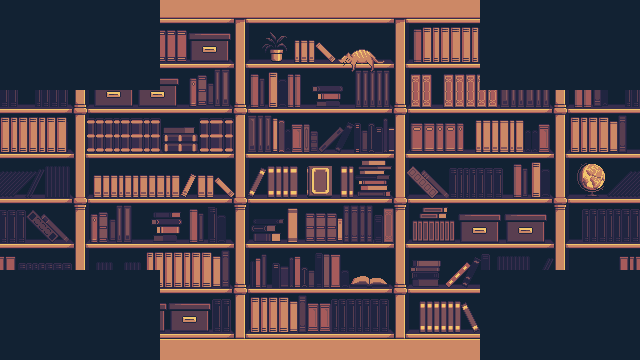
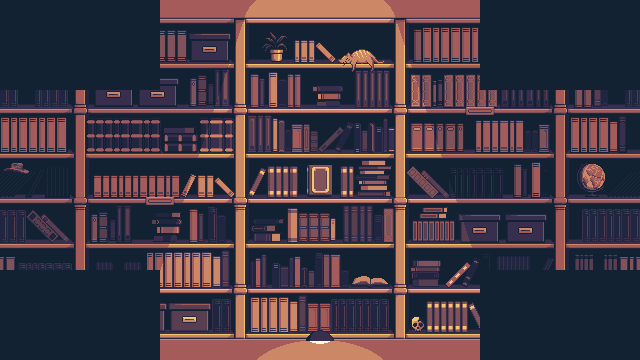
Add files via upload

diff --git a/assets/styles/icons.css b/assets/styles/icons.css
@@ -151,6 +151,32 @@
     calc(1 * var(--pixel)) calc(4 * var(--pixel)),
     calc(2 * var(--pixel)) calc(5 * var(--pixel)),
     calc(3 * var(--pixel)) calc(5 * var(--pixel));
+  --wrench:
+    calc(4 * var(--pixel)) calc(2 * var(--pixel)),
+    calc(5 * var(--pixel)) calc(2 * var(--pixel)),
+    calc(1 * var(--pixel)) calc(3 * var(--pixel)),
+    calc(2 * var(--pixel)) calc(3 * var(--pixel)),
+    calc(3 * var(--pixel)) calc(3 * var(--pixel)),
+    calc(4 * var(--pixel)) calc(3 * var(--pixel)),
+    calc(4 * var(--pixel)) calc(4 * var(--pixel)),
+    calc(5 * var(--pixel)) calc(4 * var(--pixel));
+  --home:
+    calc(3 * var(--pixel)) calc(1 * var(--pixel)),
+    calc(2 * var(--pixel)) calc(2 * var(--pixel)),
+    calc(3 * var(--pixel)) calc(2 * var(--pixel)),
+    calc(4 * var(--pixel)) calc(2 * var(--pixel)),
+    calc(1 * var(--pixel)) calc(3 * var(--pixel)),
+    calc(2 * var(--pixel)) calc(3 * var(--pixel)),
+    calc(3 * var(--pixel)) calc(3 * var(--pixel)),
+    calc(4 * var(--pixel)) calc(3 * var(--pixel)),
+    calc(5 * var(--pixel)) calc(3 * var(--pixel)),
+    calc(1 * var(--pixel)) calc(4 * var(--pixel)),
+    calc(3 * var(--pixel)) calc(4 * var(--pixel)),
+    calc(5 * var(--pixel)) calc(4 * var(--pixel)),
+    calc(1 * var(--pixel)) calc(5 * var(--pixel)),
+    calc(3 * var(--pixel)) calc(5 * var(--pixel)),
+    calc(4 * var(--pixel)) calc(5 * var(--pixel)),
+    calc(5 * var(--pixel)) calc(5 * var(--pixel));
 }
 
 .arrow-down::before { --icon: var(--arrow); }
@@ -168,21 +194,24 @@
 .tick::before { --icon: var(--tick); }
 .cross::before { --icon: var(--cross); }
 .smiley::before { --icon: var(--smiley); }
+.wrench::before { --icon: var(--wrench); }
+.home::before { --icon: var(--home); }
 
-.icon {display: inline-block;
+.icon {
   --color: currentColor;
+  display: inline-block;
   color: var(--color);
   position: relative;
   width: calc(5 * var(--pixel));
   height: calc(5 * var(--pixel));
   margin: 0 calc(2 * var(--pixel));
   vertical-align: middle;
+  pointer-events: none !important;
 }
 
 .icon::before {
   position: absolute;
   content: "";
-  pointer-events: none;
   inset: calc(-1 * var(--pixel));
   display: inline-block;
   width: var(--pixel);
@@ -191,7 +220,7 @@
 }
 
 .icon.interactive { display: none; }
-:has(> .icon.interactive):is(:hover, :focus-visible, :active) > .icon.interactive { display: inline-block; }
+:has(> .icon.interactive):is(:hover, :focus-visible, :active):not(:disabled) > .icon.interactive { display: inline-block; }
 
 @media (prefers-reduced-motion: no-preference) {
   .icon.interactive { animation: blink .8s steps(1, end) infinite; }

diff --git a/shelves.html b/shelves.html
@@ -11,13 +11,26 @@
       <div id="screen" class="turn-on">
         <div id="scene">
           <div id="shelves">
-            <div class="cols">
-              <ul class="unstyled align-start">
-                <li><button type="button" data-action="shutter:turn-off|goto:title|shutter:off">Title</button></li>
-                <li><button type="button" data-action="shelf:1,1|shutter:turn-off|goto:chapter|shutter:off" class="warning">Horror</button></li>
-                <li><button type="button" data-action="shelf:3,2|shutter:turn-off|goto:chapter|shutter:off" class="warning">Fantasy</button></li>
-                <li><button type="button" data-action="shelf:-1,-1|shutter:turn-off|goto:chapter|shutter:off" class="warning">Science Fiction</button></li>
+            <div>
+              <ul class="unstyled">
+                <li><button type="button" class="danger" data-action="shutter:turn-off|goto:title|shutter:off" aria-label="Title"><span aria-hidden="true" class="icon home"></span></button></li>
+                <li><button type="button" class="muted" data-action="dialog:settings" aria-label="Settings"><span aria-hidden="true" class="icon wrench"></span></button></li>
               </ul>
+              <h2 class="align-center">Pick a shelf:</h2>
+              <div class="cols">
+                <div class="box">
+                  <button type="button" data-action="shelf:1,1|shutter:turn-off|goto:chapter|shutter:off" class="stretched-link">Horror</button>
+                  <p>Lorem ipsum dolor sit amet, consectetuer adipiscing elit</p>
+                </div>
+                <div class="box">
+                  <button type="button" data-action="shelf:1,2|shutter:turn-off|goto:chapter|shutter:off" class="stretched-link">Fantasy</button>
+                  <p>Aenean commodo ligula eget dolor. Aenean massa</p>
+                </div>
+                <div class="box">
+                  <button type="button" data-action="shelf:-1,-1|shutter:turn-off|goto:chapter|shutter:off" class="stretched-link">Science fiction</button>
+                  <p>Cum sociis natoque penatibus et magnis dis parturient montes</p>
+                </div>
+              </div>
             </div>
           </div>
         </div>

diff --git a/chapter.html b/chapter.html
@@ -14,9 +14,8 @@
             <div id="cover">
               <nav class="bookmarks">
                 <ul class="unstyled">
-                  <li><button type="button" class="primary" data-action="shutter:turn-off|goto:title|shutter:off" aria-label="Title"><span aria-hidden="true" class="icon cross"></span></button></li>
-                  <li><button type="button" class="secondary" data-action="dialog:settings" aria-label="Settings"><span aria-hidden="true" class="icon smiley"></span></button></li>
-                  <li><button type="button" class="tertiary" data-action="shutter:turn-off|goto:title|shutter:off" aria-label="Title"><span aria-hidden="true" class="icon arrow-up"></span></button></li>
+                  <li><button type="button" class="danger" data-action="shutter:turn-off|goto:title|shutter:off" aria-label="Title"><span aria-hidden="true" class="icon home"></span></button></li>
+                  <li><button type="button" class="muted" data-action="dialog:settings" aria-label="Settings"><span aria-hidden="true" class="icon wrench"></span></button></li>
                 </ul>
               </nav>
               <nav class="bookmarks">
@@ -44,9 +43,6 @@
                 <h2 class="align-center">Chapter</h2>
                 <p>Lorem ipsum dolor sit amet, consectetuer adipiscing elit.</p>
                 <p>Aenean commodo ligula eget dolor. Aenean massa.</p>
-                <div class="sprite">
-                  <img class="idle" src="./assets/images/sprites/character.png" alt="character" />
-                </div>
                 <p>Cum sociis natoque penatibus et magnis dis parturient montes, nascetur ridiculus mus.</p>
                 <p>Donec quam felis, ultricies nec, pellentesque eu, pretium quis, sem. Nulla consequat massa quis enim. Donec pede justo, fringilla vel, aliquet nec, vulputate.</p>
               </div>

diff --git a/assets/styles/forms.css b/assets/styles/forms.css
@@ -91,7 +91,7 @@ input:disabled {
   --color: var(--disabled) !important;
   opacity: .5;
   cursor: not-allowed;
-  pointer-events: none;
+  pointer-events: none !important;
 }
 
 label:not(:disabled) {
@@ -108,7 +108,7 @@ input[type="checkbox"]:not(:focus-visible)::after {
   position: absolute;
   inset: calc(-2 * var(--pixel));
   border: var(--pixel) solid var(--color, var(--text));
-  pointer-events: none;
+  pointer-events: none !important;
 }
 
 /* Button */
@@ -118,36 +118,27 @@ button,
   font-family: NESPixel;
   display: inline-block;
   appearance: none;
-  position: relative;
   border: 0;
   padding-inline: calc(2 * var(--pixel));
   margin: var(--pixel) var(--pixel) calc(2 * var(--pixel)) var(--pixel);
   user-select: none;
   cursor: pointer;
-  color: color-mix(in srgb, var(--color) 10%, var(--darkest));
-  background-color: color-mix(in srgb, var(--color) 80%, var(--text));
+  color: color-mix(in srgb, var(--color, var(--primary)) 10%, var(--darkest));
+  background-color: color-mix(in srgb, var(--color, var(--primary)) 80%, var(--text));
+  box-shadow: var(--box);
 }
 
 button:hover,
 .button:hover {
   color: var(--darkest);
-  background-color: var(--color);
-}
-
-button::after,
-.button::after {
-  content: "";
-  position: absolute;
-  inset: 0;
-  z-index: 0;
-  box-shadow: var(--box);
+  background-color: var(--color, var(--primary));
 }
 
 button:disabled,
 .button:disabled {
   --color: var(--disabled) !important;
-  cursor: not-allowed;
-  pointer-events: none;
+  opacity: .5;
+  pointer-events: none !important;
 }
 
 @media (prefers-reduced-motion: no-preference) {

diff --git a/title.html b/title.html
@@ -14,11 +14,9 @@
             <div>
               <h1 class="unwritten align-center">unwritten</h1>
               <div class="cols">
-                <ul class="unstyled align-start">
-                  <li><button type="button" class="primary" disabled>Continue<span aria-hidden="true" class="icon interactive arrow-left"></span></button></li>
-                  <li><button type="button" class="primary" data-action="shutter:turn-off|goto:shelves|shutter:off">New game<span aria-hidden="true" class="icon interactive arrow-left"></span></button></li>
-                </ul>
                 <ul class="unstyled align-end">
+                  <li><button type="button" class="secondary" disabled><span aria-hidden="true" class="icon interactive arrow-right"></span>Continue</button></li>
+                  <li><button type="button" class="primary" data-action="shutter:turn-off|goto:shelves|shutter:off"><span aria-hidden="true" class="icon interactive arrow-right"></span>New game</button></li>
                   <li><button type="button" class="link light" data-action="dialog:settings"><span aria-hidden="true" class="icon interactive arrow-right"></span>Settings</button></li>
                   <li><button type="button" class="link light" data-action="dialog:credits"><span aria-hidden="true" class="icon interactive arrow-right"></span>Credits</button></li>
                   <li><button type="button" class="link light" data-action="shutter:turn-off|goto:index|shutter:off"><span aria-hidden="true" class="icon interactive arrow-right"></span>Disclaimer</button></li>

diff --git a/assets/styles/styles.css b/assets/styles/styles.css
@@ -29,19 +29,22 @@
 
 .box { box-shadow: var(--box); }
 
+.stretched-link::after {
+  position: absolute;
+  content: "";
+  inset: 0;
+  z-index: 1;
+}
+
 a:not(.button),
 .link {
-  --color: var(--primary);
-  color: var(--color);
+  color: var(--color, var(--primary));
   appearance: none !important;
   background: none !important;
   box-shadow: none !important;
   padding: 0 !important;
   text-decoration: none;
 }
-
-a:not(.button)::after,
-.link::after { content: none; }
 
 a:not(.button):hover,
 .link:hover {
@@ -53,6 +56,7 @@ a:not(.button):hover,
 
 p, h1, h2, h3, h4, h5, h6, legend {
   color: var(--color);
+  font-weight: 400;
 }
 
 h1, legend {
@@ -100,8 +104,13 @@ progress::-moz-progress-bar {
 
 .cols {
   display: grid;
-  justify-self: normal;
-  grid-template-columns: 1fr 1fr;
+  grid-auto-flow: column;
+  grid-auto-columns: 1fr;
+  column-gap: calc(8 * var(--pixel));
+}
+
+.cols > div {
+  position: relative;
 }
 
 .align-start { text-align: start; }
@@ -113,7 +122,7 @@ body {
   display: grid;
   place-items: center;
   font-family: HelvetiPixel, sans-serif;
-  font-size: calc(10 * var(--pixel));
+  font-size: calc(8 * var(--pixel));
   image-rendering: pixelated;
   color: var(--text);
   background-color: #000;

diff --git a/assets/styles/scenes.css b/assets/styles/scenes.css
@@ -1,6 +1,5 @@
 #disclaimer > div,
-#title > div,
-#shelves > div {
+#title > div {
   padding: calc(56 * var(--pixel)) calc(64 * var(--pixel)) 0;
 }
 
@@ -45,13 +44,13 @@
 
 #chapter > #pages > div:nth-child(odd) {
   width: calc(131 * var(--pixel));
-  padding-inline: calc(4 * var(--pixel));
+  padding-inline: calc(6 * var(--pixel));
   overflow: auto;
 }
 
 #chapter > #pages > div:nth-child(even) {
   width: calc(134 * var(--pixel));
-  padding-inline: calc(4 * var(--pixel));
+  padding-inline: calc(6 * var(--pixel));
   overflow: auto;
 }
 
@@ -60,6 +59,21 @@
   background: url("../images/backgrounds/shelves.png") repeat center / calc(var(--shelf-scale) * 100%);
 }
 
+#shelves > div {
+  padding: calc(28 * var(--pixel)) calc(32 * var(--pixel));
+}
+
+#shelves .cols div {
+  padding: calc(4 * var(--pixel));
+  background-color: hsla(0, 5%, 10%, .5);
+}
+
+#shelves .cols div:has(:hover, :focus, :active) {
+  --color: var(--darkest);
+  color: var(--darkest);
+  background-color: var(--text);
+}
+
 @media (prefers-reduced-motion: no-preference) {
-  .shelf #shelves { animation: shelf 4s cubic-bezier(.7, 0, .3, 1) forwards; }
+  .shelf #shelves { animation: shelf 4s cubic-bezier(.5, 0, .1, 1) forwards; }
 }

diff --git a/assets/js/scripts.js b/assets/js/scripts.js
@@ -135,11 +135,9 @@ const actions = {
     if (!element) return;
 
     if (
-      (type === "click" &&
-        element.matches("input, select, textarea")) ||
-      (type === "change" && !element.matches("input")) ||
-      (type === "input" &&
-        !element.matches('input[type="range"]'))
+      (type === "click" && element.matches("input, select, textarea"))
+      || (type === "change" && !element.matches("input"))
+      || (type === "input" && !element.matches('input[type="range"]'))
     ) {
       return;
     }
